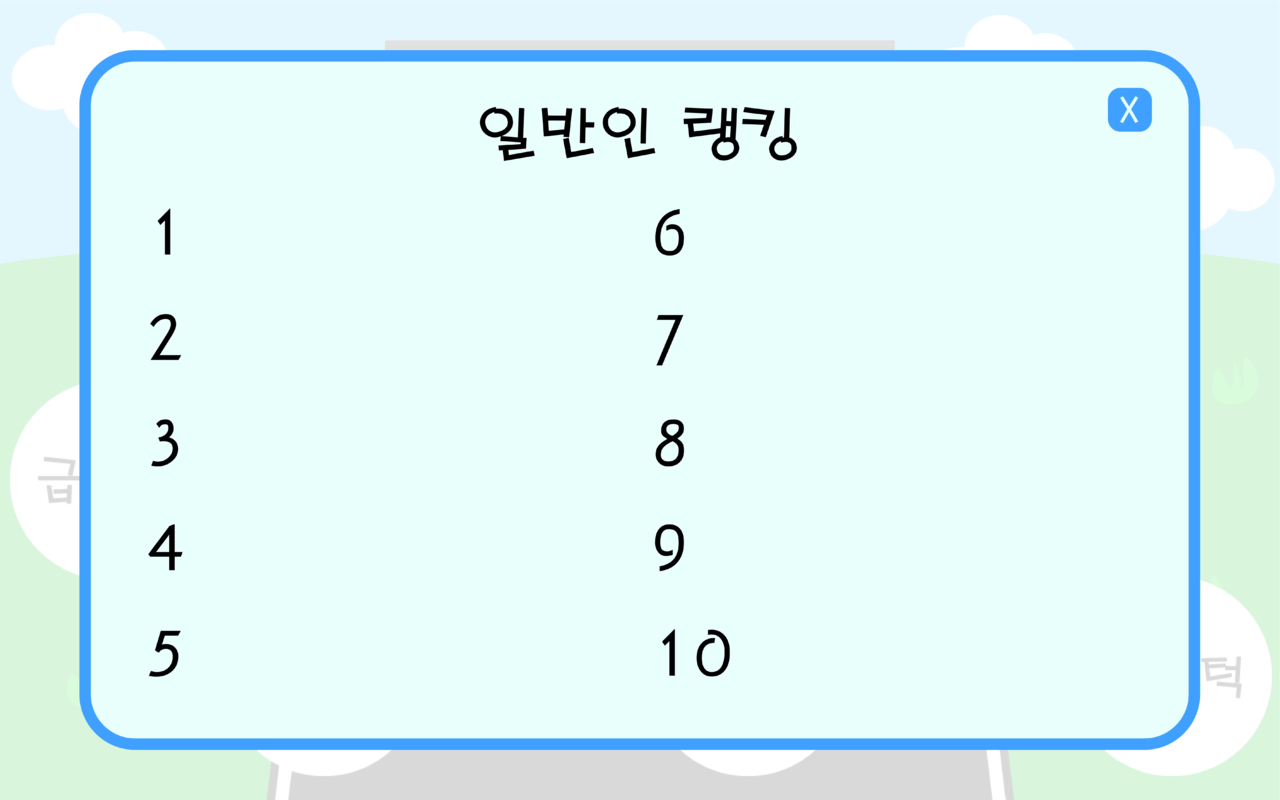
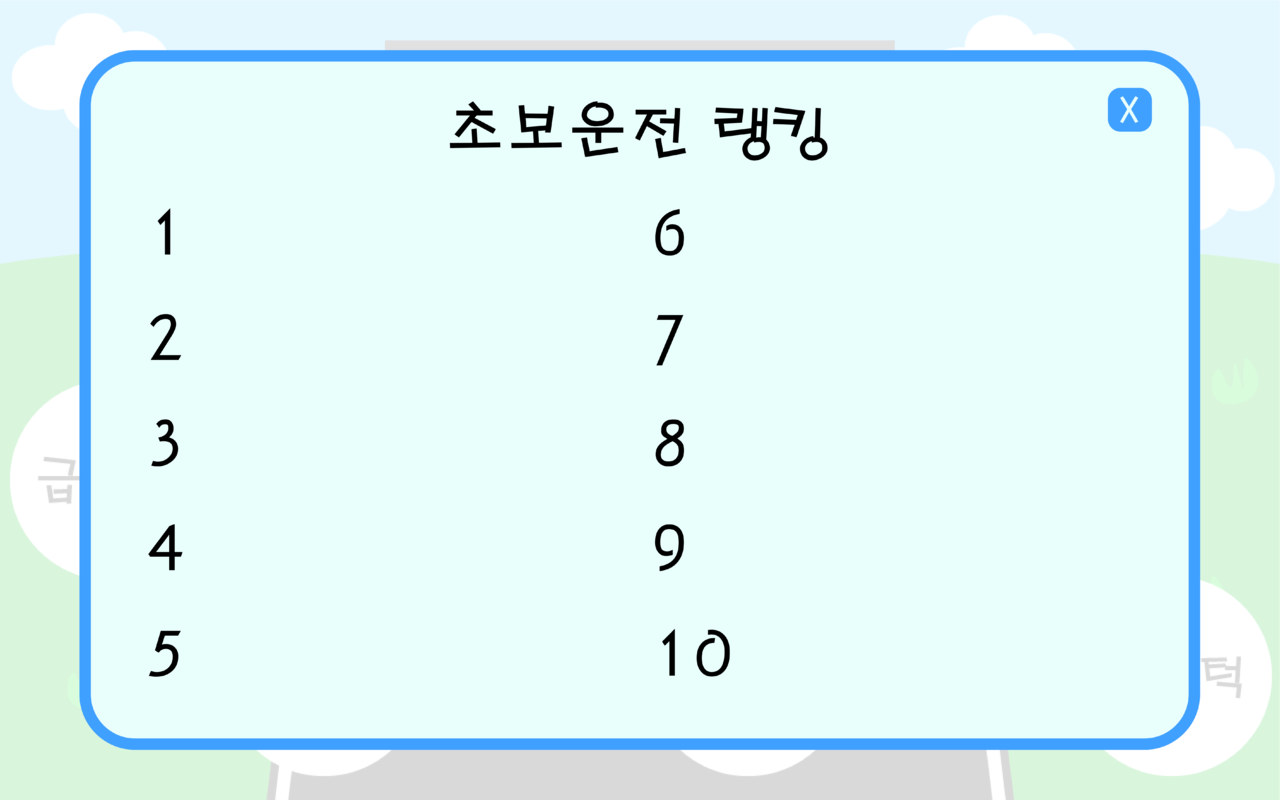
201124 메인페이지 구현

Changed region(s): [[0.3438, 0.125, 0.6562, 0.2188]]

diff --git a/buleungbuleung_game.py b/buleungbuleung_game.py
@@ -2,7 +2,7 @@ import sys
 import pygame
 
 from PySide2 import QtGui
-from PySide2.QtGui import QIcon, QPixmap
+from PySide2.QtGui import QIcon
 from PySide2.QtWidgets import QLabel, QPushButton, QWidget, QMessageBox, QApplication, QDesktopWidget, \
     QGraphicsOpacityEffect
 
@@ -17,6 +17,7 @@ class BuleungBuleung(QWidget):
         pygame.mixer.music.load(self.main_music)
         pygame.mixer.music.play(-1)
 
+    #메인페이지
     def main_buleung_buleunng(self):
         #메인페이지 사진
         self.main_background_lb = QLabel(self)
@@ -27,7 +28,7 @@ class BuleungBuleung(QWidget):
         #메인페이지 시작버튼
         main_start_btn = QPushButton(self.main_background_lb)
         main_start_btn.setGeometry(395, 300, 490, 200)
-        main_start_btn.clicked.connect(self.main_start_click)
+        main_start_btn.clicked.connect(self.go_start_click)
         opacity = QGraphicsOpacityEffect(main_start_btn)
         opacity.setOpacity(0)
         main_start_btn.setGraphicsEffect(opacity)
@@ -35,7 +36,7 @@ class BuleungBuleung(QWidget):
         #메인페이지 게임 방법 버튼
         main_rule_btn = QPushButton(self.main_background_lb)
         main_rule_btn.setGeometry(1050, 470, 235, 130)
-        main_rule_btn.clicked.connect(self.main_rule_click)
+        main_rule_btn.clicked.connect(self.go_rule_click)
         opacity = QGraphicsOpacityEffect(main_rule_btn)
         opacity.setOpacity(0)
         main_rule_btn.setGraphicsEffect(opacity)
@@ -43,7 +44,7 @@ class BuleungBuleung(QWidget):
         #메인페이지 랭킹 버튼
         main_rank_btn = QPushButton(self)
         main_rank_btn.setGeometry(1050, 615, 235, 130)
-        main_rank_btn.clicked.connect(self.main_rank_click)
+        main_rank_btn.clicked.connect(self.go_rank_click)
         opacity = QGraphicsOpacityEffect(main_rank_btn)
         opacity.setOpacity(0)
         main_rank_btn.setGraphicsEffect(opacity)
@@ -57,45 +58,265 @@ class BuleungBuleung(QWidget):
         self.center()
         self.show()
 
-    def main_start_click(self):
+    def go_start_click(self):
         self.game_choice()
-
-    def main_rule_click(self):
-        self.rule_notice()
-
-    def main_rank_click(self):
-        self.rank_choice()
-
+    #게임 난이도 선택 페이지
     def game_choice(self):
+        #게임 난이도 선택 페이지 사진
         self.main_start_background_lb = QLabel(self)
         main_start_background_lb = QtGui.QPixmap("images/main_game_choice.png")
         self.main_start_background_lb.setFixedSize(1280, 800)
         self.main_start_background_lb.setPixmap(main_start_background_lb)
+
+        #취소 버튼
+        start_exit_btn = QPushButton(self.main_start_background_lb)
+        start_exit_btn.setGeometry(925, 220, 60, 60)
+        opacity = QGraphicsOpacityEffect(start_exit_btn)
+        opacity.setOpacity(0)
+        start_exit_btn.setGraphicsEffect(opacity)
+        start_exit_btn.clicked.connect(self.go_start_main_buleung_buleunng)
+
+        #난이도 1 선택 버튼
+        start_lv1_btn = QPushButton(self.main_start_background_lb)
+        start_lv1_btn.setGeometry(340, 320, 140, 140)
+        opacity = QGraphicsOpacityEffect(start_lv1_btn)
+        opacity.setOpacity(0)
+        start_lv1_btn.setGraphicsEffect(opacity)
+        start_lv1_btn.clicked.connect(self.go_game_buleung_buleunng)
+
+        #난이도 2 선택 버튼
+        start_lv2_btn = QPushButton(self.main_start_background_lb)
+        start_lv2_btn.setGeometry(500, 430, 140, 140)
+        opacity = QGraphicsOpacityEffect(start_lv2_btn)
+        opacity.setOpacity(0)
+        start_lv2_btn.setGraphicsEffect(opacity)
+        start_lv2_btn.clicked.connect(self.go_game_buleung_buleunng)
+
+        #난이도 3 선택 버튼
+        start_lv3_btn = QPushButton(self.main_start_background_lb)
+        start_lv3_btn.setGeometry(655, 320, 140, 140)
+        opacity = QGraphicsOpacityEffect(start_lv3_btn)
+        opacity.setOpacity(0)
+        start_lv3_btn.setGraphicsEffect(opacity)
+        start_lv3_btn.clicked.connect(self.go_game_buleung_buleunng)
+
+        #난이도 4 선택 버튼
+        start_lv4_btn = QPushButton(self.main_start_background_lb)
+        start_lv4_btn.setGeometry(812, 430, 140, 140)
+        opacity = QGraphicsOpacityEffect(start_lv4_btn)
+        opacity.setOpacity(0)
+        start_lv4_btn.setGraphicsEffect(opacity)
+        start_lv4_btn.clicked.connect(self.go_game_buleung_buleunng)
+
         self.main_background_lb.setVisible(False)
         self.main_start_background_lb.setVisible(True)
+    def go_start_main_buleung_buleunng(self):
+        self.main_background_lb.setVisible(True)
+        self.main_start_background_lb.setVisible(False)
+    def go_game_buleung_buleunng(self):
+        self.game_buleung_buleunng()
 
+    #게임 페이지
+    def game_buleung_buleunng(self):
+        #게임 난이도 선택 페이지 사진
+        self.game_background_lb = QLabel(self)
+        game_background_lb = QtGui.QPixmap("images/game_life1.png")
+        self.game_background_lb.setFixedSize(1280, 800)
+        self.game_background_lb.setPixmap(game_background_lb)
+
+        self.main_start_background_lb.setVisible(False)
+        self.game_background_lb.setVisible(True)
+
+    def go_rule_click(self):
+        self.rule_notice()
+    #게임 방법 페이지
     def rule_notice(self):
+        #게임 방법 페이지 사진
         self.main_rule_background_lb = QLabel(self)
         main_rule_background_lb = QtGui.QPixmap("images/main_rule_notice.png")
         self.main_rule_background_lb.setFixedSize(1280, 800)
         self.main_rule_background_lb.setPixmap(main_rule_background_lb)
+
+        #취소 버튼
+        rule_exit_btn = QPushButton(self.main_rule_background_lb)
+        rule_exit_btn.setGeometry(1100, 80, 60, 60)
+        opacity = QGraphicsOpacityEffect(rule_exit_btn)
+        opacity.setOpacity(0)
+        rule_exit_btn.setGraphicsEffect(opacity)
+        rule_exit_btn.clicked.connect(self.go_rule_main_buleung_buleunng)
+
         self.main_background_lb.setVisible(False)
         self.main_rule_background_lb.setVisible(True)
+    def go_rule_main_buleung_buleunng(self):
+        self.main_background_lb.setVisible(True)
+        self.main_rule_background_lb.setVisible(False)
 
+    def go_rank_click(self):
+        self.rank_choice()
+    #순위 난이도 선택 페이지
     def rank_choice(self):
+        #순위 난이도 선택 페이지 사진
         self.main_rank_background_lb = QLabel(self)
         main_rank_background_lb = QtGui.QPixmap("images/main_rank_choice.png")
         self.main_rank_background_lb.setFixedSize(1280, 800)
         self.main_rank_background_lb.setPixmap(main_rank_background_lb)
+
+        #취소 버튼
+        rank_exit_btn = QPushButton(self.main_rank_background_lb)
+        rank_exit_btn.setGeometry(920, 255, 60, 60)
+        opacity = QGraphicsOpacityEffect(rank_exit_btn)
+        opacity.setOpacity(0)
+        rank_exit_btn.setGraphicsEffect(opacity)
+        rank_exit_btn.clicked.connect(self.go_rank_main_buleung_buleunng)
+
+        #난이도 2 선택 버튼
+        rank_lv2_btn = QPushButton(self.main_rank_background_lb)
+        rank_lv2_btn.setGeometry(370, 385, 140, 140)
+        opacity = QGraphicsOpacityEffect(rank_lv2_btn)
+        opacity.setOpacity(0)
+        rank_lv2_btn.setGraphicsEffect(opacity)
+        rank_lv2_btn.clicked.connect(self.go_rank_lv2)
+
+        #난이도 3 선택 버튼
+        rank_lv3_btn = QPushButton(self.main_rank_background_lb)
+        rank_lv3_btn.setGeometry(570, 385, 140, 140)
+        opacity = QGraphicsOpacityEffect(rank_lv3_btn)
+        opacity.setOpacity(0)
+        rank_lv3_btn.setGraphicsEffect(opacity)
+        rank_lv3_btn.clicked.connect(self.go_rank_lv3)
+
+        #난이도 4 선택 버튼
+        rank_lv4_btn = QPushButton(self.main_rank_background_lb)
+        rank_lv4_btn.setGeometry(770, 385, 140, 140)
+        opacity = QGraphicsOpacityEffect(rank_lv4_btn)
+        opacity.setOpacity(0)
+        rank_lv4_btn.setGraphicsEffect(opacity)
+        rank_lv4_btn.clicked.connect(self.go_rank_lv4)
+
         self.main_background_lb.setVisible(False)
         self.main_rank_background_lb.setVisible(True)
+    def go_rank_main_buleung_buleunng(self):
+        self.main_background_lb.setVisible(True)
+        self.main_rank_background_lb.setVisible(False)
+    def go_rank_lv2(self):
+        self.rank2_buleung_bluleung()
+    def go_rank_lv3(self):
+        self.rank3_buleung_bluleung()
+    def go_rank_lv4(self):
+        self.rank4_buleung_bluleung()
 
+    # 난이도 2 랭크 페이지
+    def rank2_buleung_bluleung(self):
+        # 난이도 2 랭크 페이지 사진
+        self.rank2_background_lb = QLabel(self)
+        rank2_background_lb = QtGui.QPixmap("images/main_rank2.png")
+        self.rank2_background_lb.setFixedSize(1280, 800)
+        self.rank2_background_lb.setPixmap(rank2_background_lb)
+
+        #취소 버튼
+        rank2_exit_btn = QPushButton(self.rank2_background_lb)
+        rank2_exit_btn.setGeometry(1100, 80, 60, 60)
+        opacity = QGraphicsOpacityEffect(rank2_exit_btn)
+        opacity.setOpacity(0)
+        rank2_exit_btn.setGraphicsEffect(opacity)
+        rank2_exit_btn.clicked.connect(self.go_rank2_main_buleung_buleunng)
+
+        self.main_rank_background_lb.setVisible(False)
+        self.rank2_background_lb.setVisible(True)
+    def go_rank2_main_buleung_buleunng(self):
+        self.rank2_background_lb.setVisible(False)
+        self.main_rank_background_lb.setVisible(True)
+
+    # 난이도 3 랭크 페이지
+    def rank3_buleung_bluleung(self):
+        #난이도 3 랭크 페이지 사진
+        self.rank3_background_lb = QLabel(self)
+        rank3_background_lb = QtGui.QPixmap("images/main_rank3.png")
+        self.rank3_background_lb.setFixedSize(1280, 800)
+        self.rank3_background_lb.setPixmap(rank3_background_lb)
+
+        #취소 버튼
+        rank3_exit_btn = QPushButton(self.rank3_background_lb)
+        rank3_exit_btn.setGeometry(1100, 80, 60, 60)
+        opacity = QGraphicsOpacityEffect(rank3_exit_btn)
+        opacity.setOpacity(0)
+        rank3_exit_btn.setGraphicsEffect(opacity)
+        rank3_exit_btn.clicked.connect(self.go_rank3_main_buleung_buleunng)
+
+        self.main_rank_background_lb.setVisible(False)
+        self.rank3_background_lb.setVisible(True)
+    def go_rank3_main_buleung_buleunng(self):
+        self.rank3_background_lb.setVisible(False)
+        self.main_rank_background_lb.setVisible(True)
+
+    # 난이도 4 랭크 페이지
+    def rank4_buleung_bluleung(self):
+        #난이도 4 랭크 페이지 사진
+        self.rank4_background_lb = QLabel(self)
+        rank4_background_lb = QtGui.QPixmap("images/main_rank4.png")
+        self.rank4_background_lb.setFixedSize(1280, 800)
+        self.rank4_background_lb.setPixmap(rank4_background_lb)
+
+        #취소 버튼
+        rank4_exit_btn = QPushButton(self.rank4_background_lb)
+        rank4_exit_btn.setGeometry(1100, 80, 60, 60)
+        opacity = QGraphicsOpacityEffect(rank4_exit_btn)
+        opacity.setOpacity(0)
+        rank4_exit_btn.setGraphicsEffect(opacity)
+        rank4_exit_btn.clicked.connect(self.go_rank4_main_buleung_buleunng)
+
+        self.main_rank_background_lb.setVisible(False)
+        self.rank4_background_lb.setVisible(True)
+    def go_rank4_main_buleung_buleunng(self):
+        self.rank4_background_lb.setVisible(False)
+        self.main_rank_background_lb.setVisible(True)
+
+
+
+
+
+
+
+
+
+
+
+
+
+
+
+
+
+
+
+
+
+
+
+
+
+
+
+
+
+
+
+
+
+
+
+
+
+
+
+    #화면 중간에 표시
     def center(self):
         window_xy = self.frameGeometry()
         center_xy = QDesktopWidget().availableGeometry().center()
         window_xy.moveCenter(center_xy)
         self.move(window_xy.topLeft())
 
+    #프로그램 종료 시
     def closeEvent(self, event):
         reply = QMessageBox.question(self, '게임 종료', '新부릉부릉을 종료하시겠습니까?', QMessageBox.Yes | QMessageBox.No, QMessageBox.No)
         if reply == QMessageBox.Yes:
@@ -103,6 +324,7 @@ class BuleungBuleung(QWidget):
         else:
             event.ignore()
 
+#프로그램 실행
 if __name__ == "__main__":
     app = QApplication(sys.argv)
     main = BuleungBuleung()
